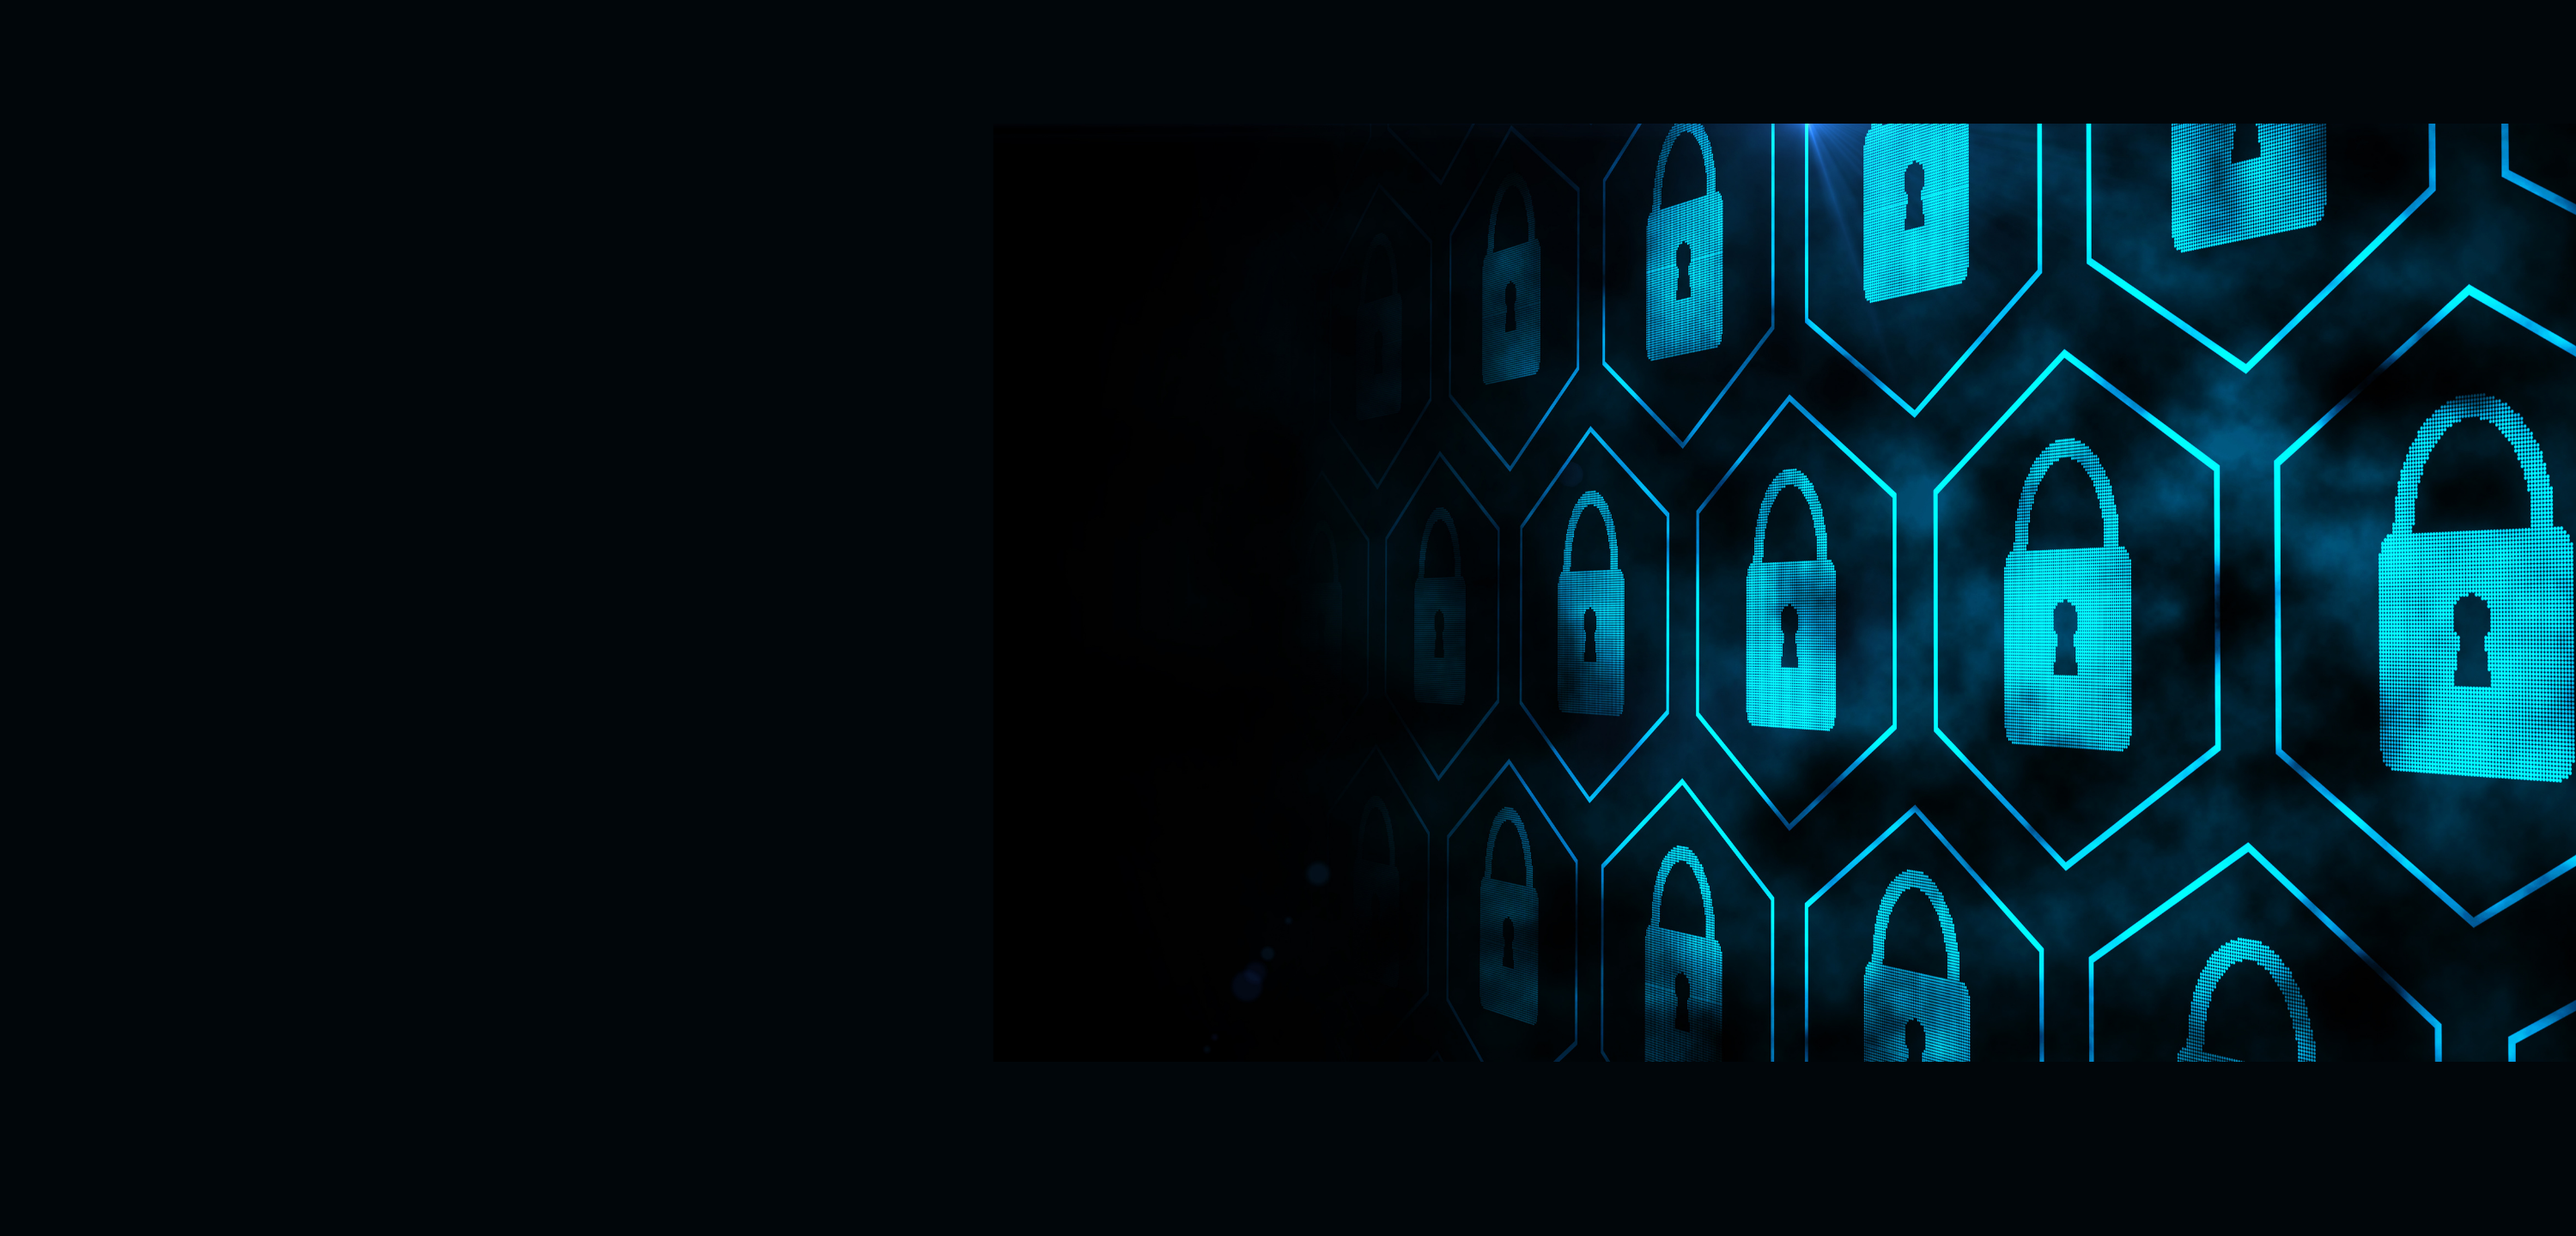
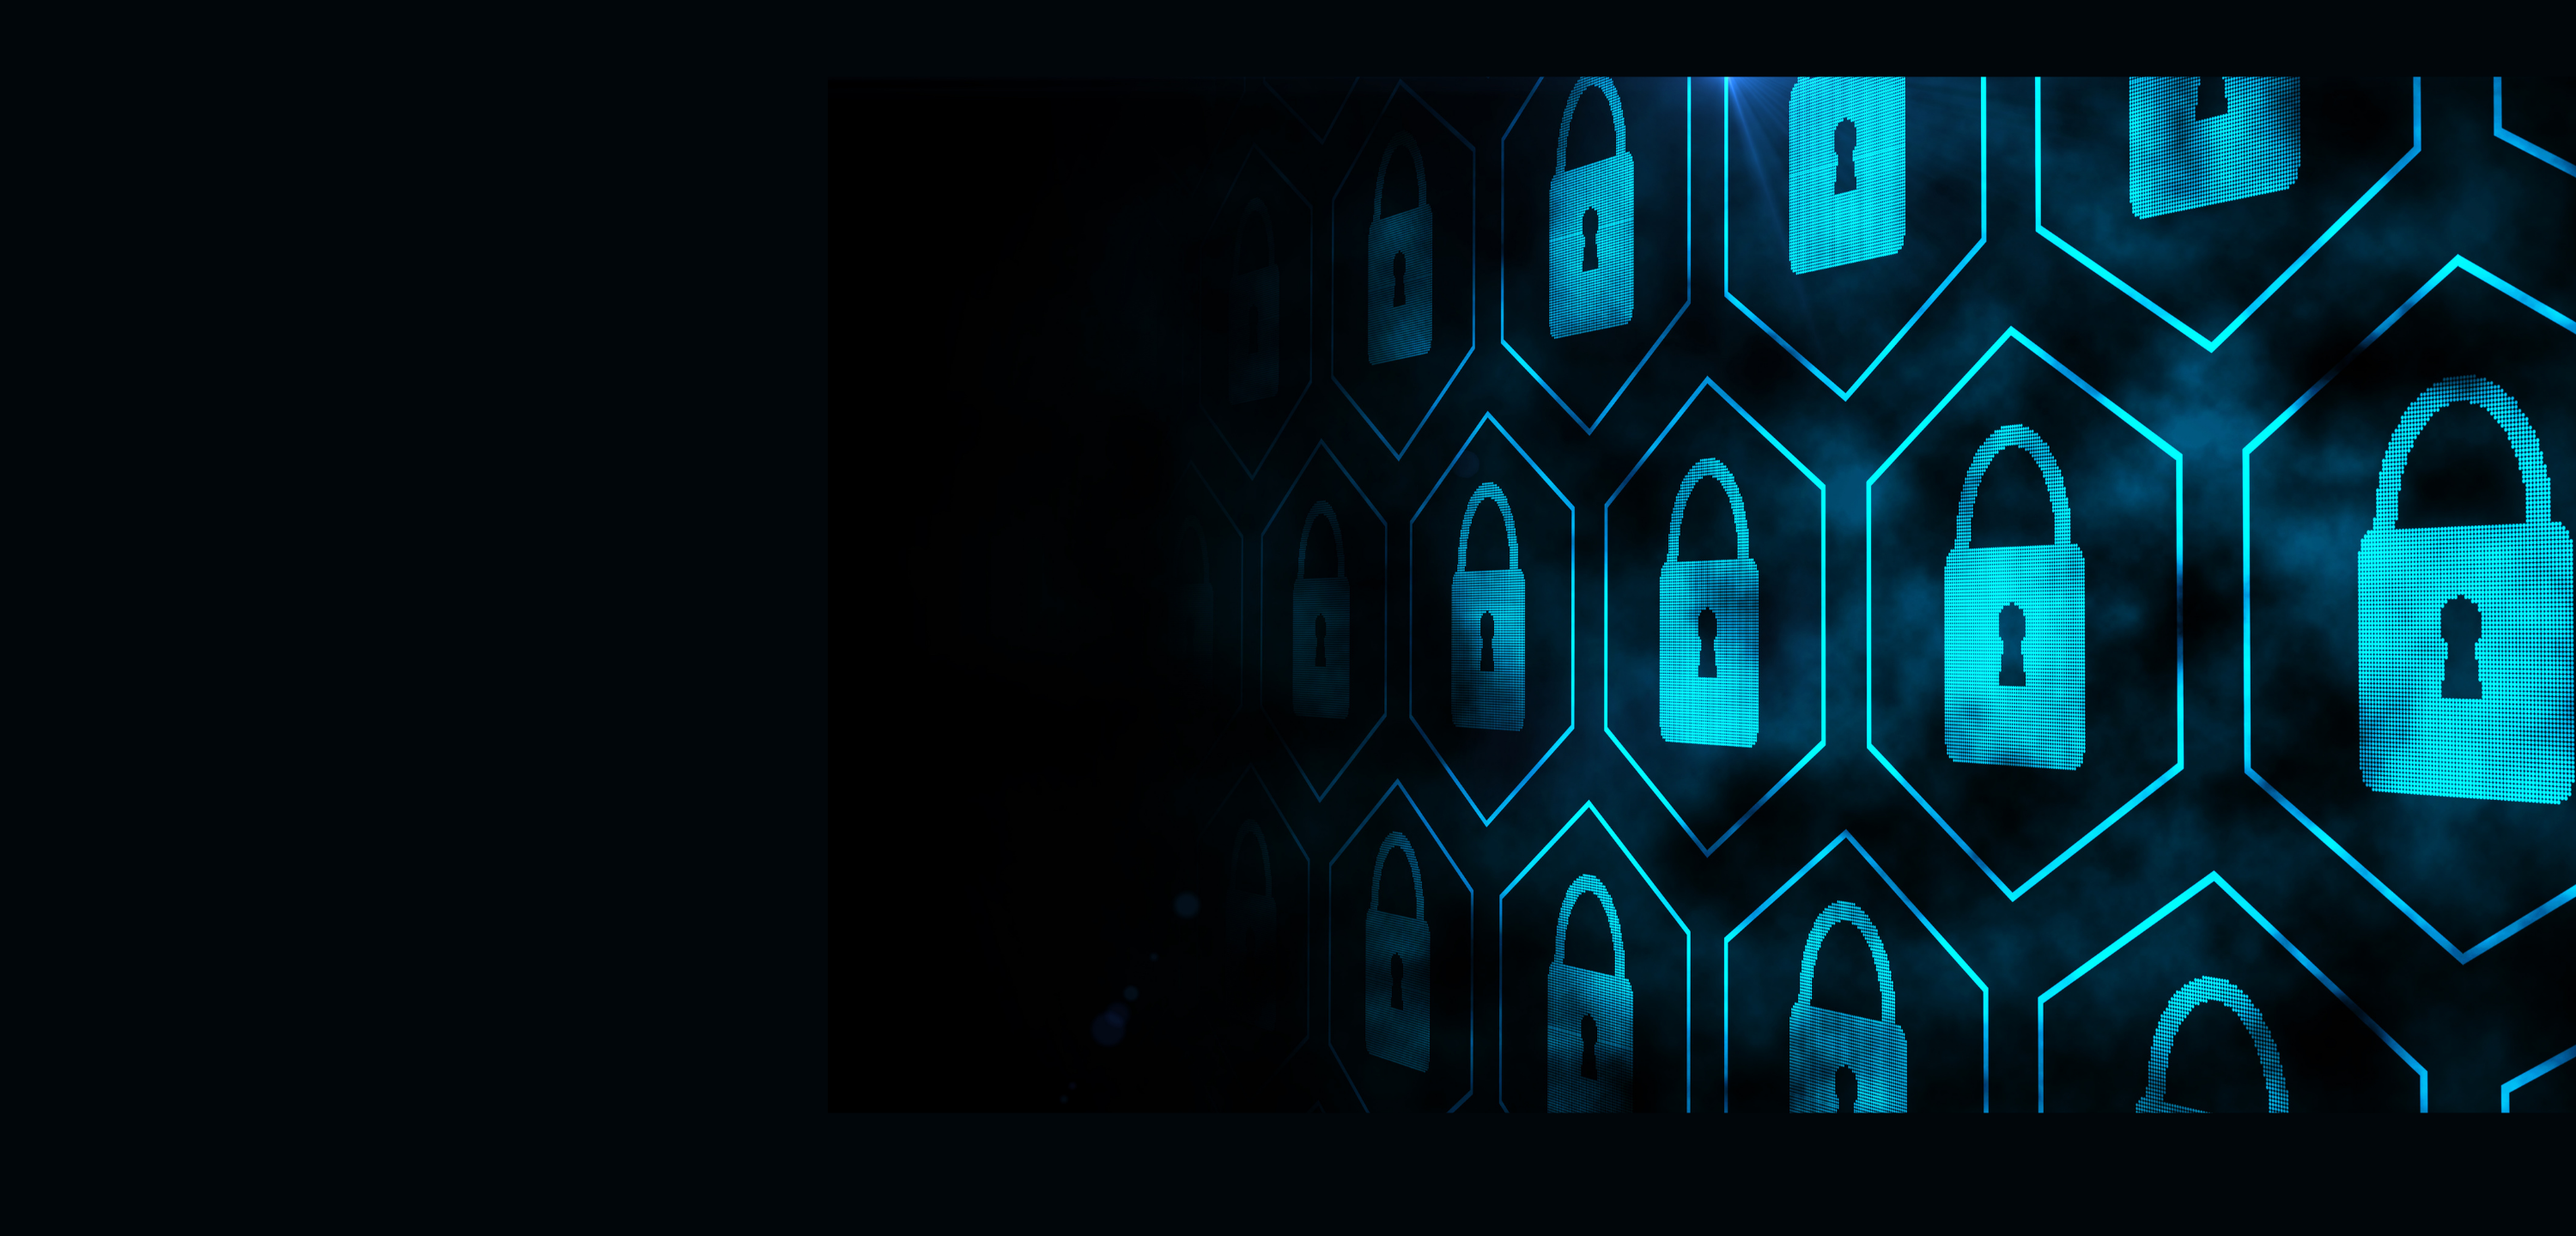
Changed Image
Background image needed to be resized

Changed region(s): [[0.496, 0.0625, 1.0, 0.9062]]

diff --git a/index.html b/index.html
@@ -99,7 +99,7 @@
     </div>
     <div class="parallax"></div>
     <!-- Footer -->
-    <footer class="bg-light text-center text-black fixed-bottom">
+    <footer class="bg-light text-center text-black ">
         <!-- Grid Container with Social Media Links -->
         <div class="bg-light text-center container">
             <section>
